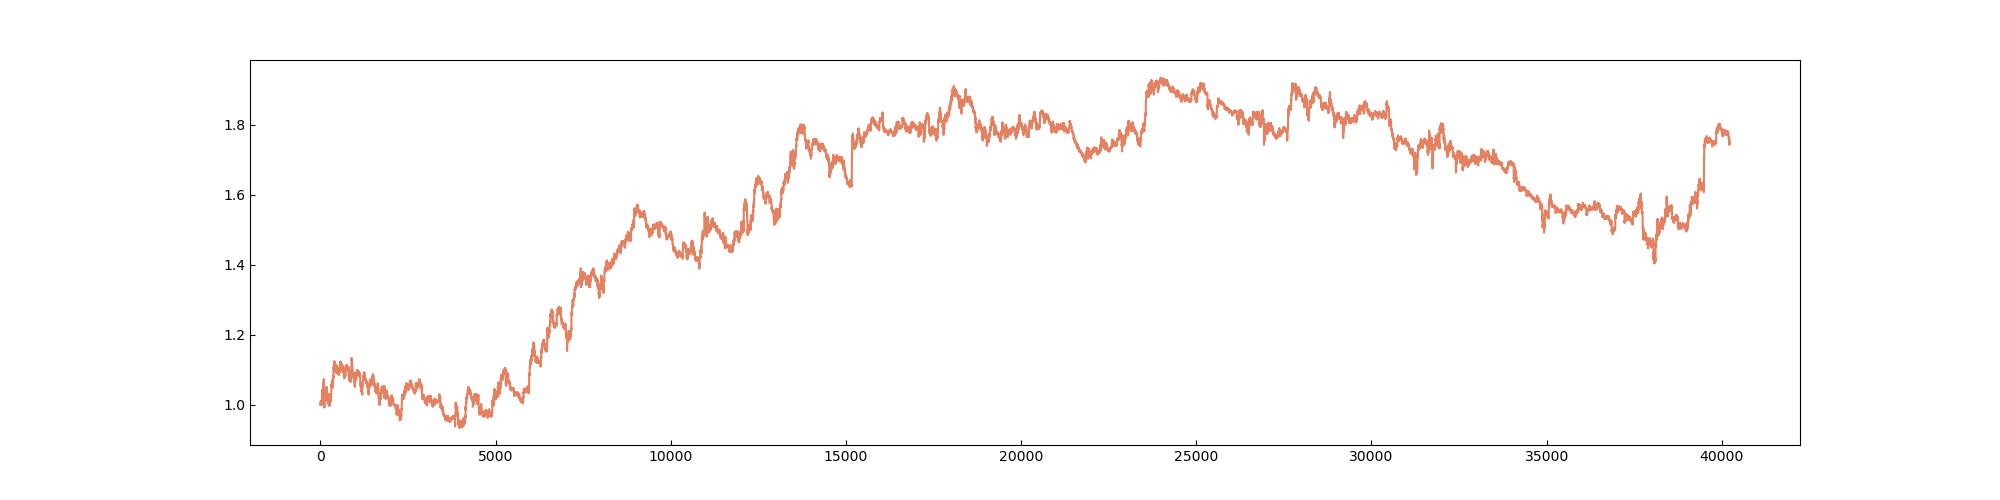
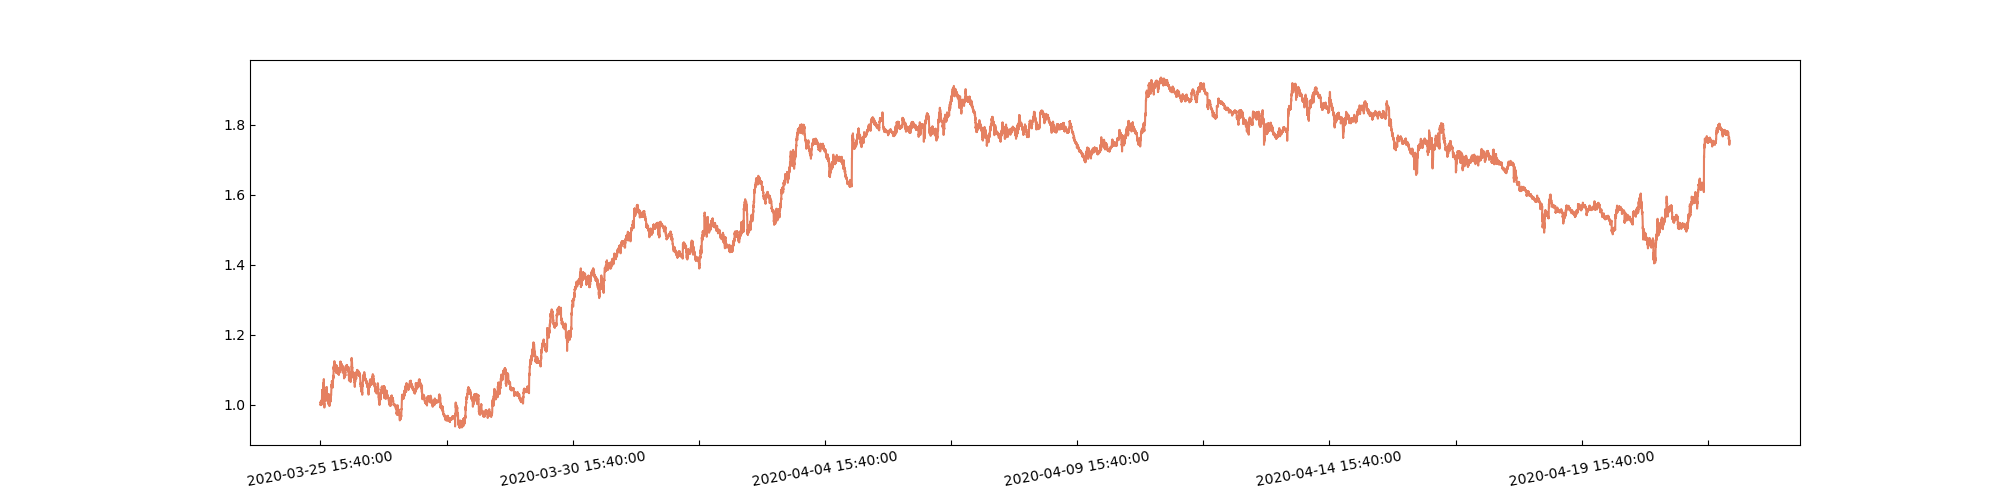
v1.5

diff --git a/digitCurRes/main.py b/digitCurRes/main.py
@@ -76,7 +76,7 @@ timepoint = get_strike_day(c0)
 
 for i in range(3):
     asdf = i
-    if (i == 2) | (i == 1):
+    if (i == 2) | (i == 0):
         pass
         # continue
 
@@ -93,63 +93,6 @@ for i in range(3):
     ret = ((_c0.close.shift(-ret_time) / (_c0.close)) - 1)
 
     factors = cal_factors(_y, _c0, _p0)
-    # fac0 = np.log(_y.close).diff(long_windows)
-    # fac1 = np.log(_y.close).diff(short_windows)
-    # fac2 = np.log(_y.close).diff(long_windows).rolling(long_windows).std()
-    # fac3 = np.log(_y.close).diff(short_windows).rolling(short_windows).std()
-    # fac4 = ((_y.high - _y.low) / (_y.close + _y.open)).rolling(long_windows).mean()
-    # fac5 = ((_y.high - _y.low) / (_y.close + _y.open)).rolling(short_windows).mean()
-    # fac6 = _y.vol.rolling(long_windows).sum()
-    # fac7 = _y.vol.rolling(short_windows).sum()
-
-    # fac8 = np.log(_c0.close).diff(long_windows)
-    # fac9 = np.log(_c0.close).diff(short_windows)
-    # fac10 = np.log(_c0.close).diff().rolling(long_windows).std()
-    # fac11 = np.log(_c0.close).diff().rolling(short_windows).std()
-    # fac12 = ((_c0.high - _c0.low) / (_c0.close + _c0.open)).rolling(long_windows).mean()
-    # fac13 = ((_c0.high - _c0.low) / (_c0.close + _c0.open)).rolling(short_windows).mean()
-    # fac14 = _c0.vol.rolling(long_windows).sum()
-    # fac15 = _c0.vol.rolling(short_windows).sum()
-
-    # fac16 = np.log(_p0.close).diff(long_windows)
-    # fac17 = np.log(_p0.close).diff(short_windows)
-    # fac18 = np.log(_p0.close).diff().rolling(long_windows).std()
-    # fac19 = np.log(_p0.close).diff().rolling(short_windows).std()
-    # fac20 = ((_p0.high - _p0.low) / (_p0.close + _p0.open)).rolling(long_windows).mean()
-    # fac21 = ((_p0.high - _p0.low) / (_p0.close + _p0.open)).rolling(short_windows).mean()
-    # fac22 = _p0.vol.rolling(long_windows).sum()
-    # fac23 = _p0.vol.rolling(short_windows).sum()
-
-    # fac24 = (_c0.vol - _p0.vol) / (_c0.vol+_p0.vol+1).rolling(long_windows).mean()
-    # fac25 = (_c0.close.diff()) / (_y.close.diff() + 0.0001).rolling(long_windows).mean()
-    # fac26 = (_p0.close.diff()) / (_y.close.diff() + 0.0001).rolling(long_windows).mean()
-
-    # fac27 = np.log(_y.close).diff(medium_windows)
-    # fac28 = np.log(_y.close).diff(medium_windows).rolling(medium_windows).std()
-    # fac29 = ((_y.high - _y.low) / (_y.close + _y.open)).rolling(medium_windows).mean()
-    # fac30 = np.log(_c0.close).diff(medium_windows)
-    # fac31 = np.log(_p0.close).diff(medium_windows)
-    # fac32 = (_c0.close.diff()) / (_y.close.diff() + 0.0001).rolling(short_windows).mean()
-    # fac33 = (_p0.close.diff()) / (_y.close.diff() + 0.0001).rolling(short_windows).mean()
-    # fac34 = (_c0.close.diff().diff()) / (_y.close.diff().diff() + 0.0001).rolling(short_windows).mean()
-    # fac35 = (_p0.close.diff().diff()) / (_y.close.diff().diff() + 0.0001).rolling(short_windows).mean()
-    # fac36 = (_c0.close.diff().diff()) / ((_y.close.diff().diff()).diff() + 0.0001)
-    # fac37 = (_p0.close.diff().diff()) / ((_y.close.diff().diff()).diff() + 0.0001)
-    # fac38 = _c0.close.diff()/(_y.close.rolling(medium_windows).std().diff() + 0.0001)
-    # fac39 = _p0.close.diff()/(_y.close.rolling(medium_windows).std().diff() + 0.0001)
-    # fac40 = fac38.rolling(medium_windows).mean()
-    # fac41 = fac39.rolling(medium_windows).mean()
-
-    #     for i in range(factors_num):
-    #         locals()['fac{}'.format(i)] = locals()['fac{}'.format(i)].rolling(10).apply(lambda x:((x-x.mean())/x.std()).iloc[-1])
-    # columns = ['fac{}'.format(i) for i in range(factors_num)]
-
-    # factors = []
-    # for _i in range(factors_num):
-    # factors.append(locals()['fac{}'.format(str(_i))])
-    # factors = pd.concat(factors,axis = 1)
-    # factors.columns = columns
-
     Y1 = f(np.nan_to_num(ret))
     Y2 = f(np.nan_to_num(ret))
     X1 = np.nan_to_num(factors.values)
@@ -203,6 +146,19 @@ for i in range(3):
 
     fig, ax = plt.subplots()
     net_worth = pd.DataFrame(np.array(net))
+    if ret_time == 1:
+        net_worth.index = _y.index[10000:10000 + len(net_worth)]
     ax.plot(net_worth.sum(axis=1), color=colors[4])
+    for i, j in enumerate(ax.get_xticklabels()):
+        if i % 7200 == 0:
+            j.set_visible(True)
+            j.set_rotation(10)
+        else:
+            j.set_visible(False)
+    for i, j in enumerate(ax.get_xticklines()):
+        if i % 7200 == 0:
+            j.set_visible(True)
+        else:
+            j.set_visible(False)
     fig.savefig('{}.png'.format(asdf))
     plt.show(fig)

diff --git a/digitCurRes/utils/utils.py b/digitCurRes/utils/utils.py
@@ -142,10 +142,16 @@ def cal_factors(y, c, p):
     fac40 = fac38.rolling(medium_windows).mean()
     fac41 = fac39.rolling(medium_windows).mean()
 
+    fac42 = y.close.rolling(15).mean()  # MA
+    fac43 = y.close.rolling(15).apply(lambda x: x[x > 0].sum() / np.sum(np.abs(x)))  # RSI
+    # fac44 =
+
     allfac = []
     for i in range(factors_num):
+        '''
         locals()['fac{}'.format(i)] = (
             locals()['fac{}'.format(i)]).rolling(30).apply(lambda x: (x.iloc[-1] - x.mean()) / x.std())
+        '''
         allfac.append(locals()['fac{}'.format(i)])
     allfac = pd.concat(allfac, axis=1)
 
@@ -153,3 +159,60 @@ def cal_factors(y, c, p):
 
     allfac.columns = columns
     return allfac
+
+    # fac0 = np.log(_y.close).diff(long_windows)
+    # fac1 = np.log(_y.close).diff(short_windows)
+    # fac2 = np.log(_y.close).diff(long_windows).rolling(long_windows).std()
+    # fac3 = np.log(_y.close).diff(short_windows).rolling(short_windows).std()
+    # fac4 = ((_y.high - _y.low) / (_y.close + _y.open)).rolling(long_windows).mean()
+    # fac5 = ((_y.high - _y.low) / (_y.close + _y.open)).rolling(short_windows).mean()
+    # fac6 = _y.vol.rolling(long_windows).sum()
+    # fac7 = _y.vol.rolling(short_windows).sum()
+
+    # fac8 = np.log(_c0.close).diff(long_windows)
+    # fac9 = np.log(_c0.close).diff(short_windows)
+    # fac10 = np.log(_c0.close).diff().rolling(long_windows).std()
+    # fac11 = np.log(_c0.close).diff().rolling(short_windows).std()
+    # fac12 = ((_c0.high - _c0.low) / (_c0.close + _c0.open)).rolling(long_windows).mean()
+    # fac13 = ((_c0.high - _c0.low) / (_c0.close + _c0.open)).rolling(short_windows).mean()
+    # fac14 = _c0.vol.rolling(long_windows).sum()
+    # fac15 = _c0.vol.rolling(short_windows).sum()
+
+    # fac16 = np.log(_p0.close).diff(long_windows)
+    # fac17 = np.log(_p0.close).diff(short_windows)
+    # fac18 = np.log(_p0.close).diff().rolling(long_windows).std()
+    # fac19 = np.log(_p0.close).diff().rolling(short_windows).std()
+    # fac20 = ((_p0.high - _p0.low) / (_p0.close + _p0.open)).rolling(long_windows).mean()
+    # fac21 = ((_p0.high - _p0.low) / (_p0.close + _p0.open)).rolling(short_windows).mean()
+    # fac22 = _p0.vol.rolling(long_windows).sum()
+    # fac23 = _p0.vol.rolling(short_windows).sum()
+
+    # fac24 = (_c0.vol - _p0.vol) / (_c0.vol+_p0.vol+1).rolling(long_windows).mean()
+    # fac25 = (_c0.close.diff()) / (_y.close.diff() + 0.0001).rolling(long_windows).mean()
+    # fac26 = (_p0.close.diff()) / (_y.close.diff() + 0.0001).rolling(long_windows).mean()
+
+    # fac27 = np.log(_y.close).diff(medium_windows)
+    # fac28 = np.log(_y.close).diff(medium_windows).rolling(medium_windows).std()
+    # fac29 = ((_y.high - _y.low) / (_y.close + _y.open)).rolling(medium_windows).mean()
+    # fac30 = np.log(_c0.close).diff(medium_windows)
+    # fac31 = np.log(_p0.close).diff(medium_windows)
+    # fac32 = (_c0.close.diff()) / (_y.close.diff() + 0.0001).rolling(short_windows).mean()
+    # fac33 = (_p0.close.diff()) / (_y.close.diff() + 0.0001).rolling(short_windows).mean()
+    # fac34 = (_c0.close.diff().diff()) / (_y.close.diff().diff() + 0.0001).rolling(short_windows).mean()
+    # fac35 = (_p0.close.diff().diff()) / (_y.close.diff().diff() + 0.0001).rolling(short_windows).mean()
+    # fac36 = (_c0.close.diff().diff()) / ((_y.close.diff().diff()).diff() + 0.0001)
+    # fac37 = (_p0.close.diff().diff()) / ((_y.close.diff().diff()).diff() + 0.0001)
+    # fac38 = _c0.close.diff()/(_y.close.rolling(medium_windows).std().diff() + 0.0001)
+    # fac39 = _p0.close.diff()/(_y.close.rolling(medium_windows).std().diff() + 0.0001)
+    # fac40 = fac38.rolling(medium_windows).mean()
+    # fac41 = fac39.rolling(medium_windows).mean()
+
+    #     for i in range(factors_num):
+    #         locals()['fac{}'.format(i)] = locals()['fac{}'.format(i)].rolling(10).apply(lambda x:((x-x.mean())/x.std()).iloc[-1])
+    # columns = ['fac{}'.format(i) for i in range(factors_num)]
+
+    # factors = []
+    # for _i in range(factors_num):
+    # factors.append(locals()['fac{}'.format(str(_i))])
+    # factors = pd.concat(factors,axis = 1)
+    # factors.columns = columns
